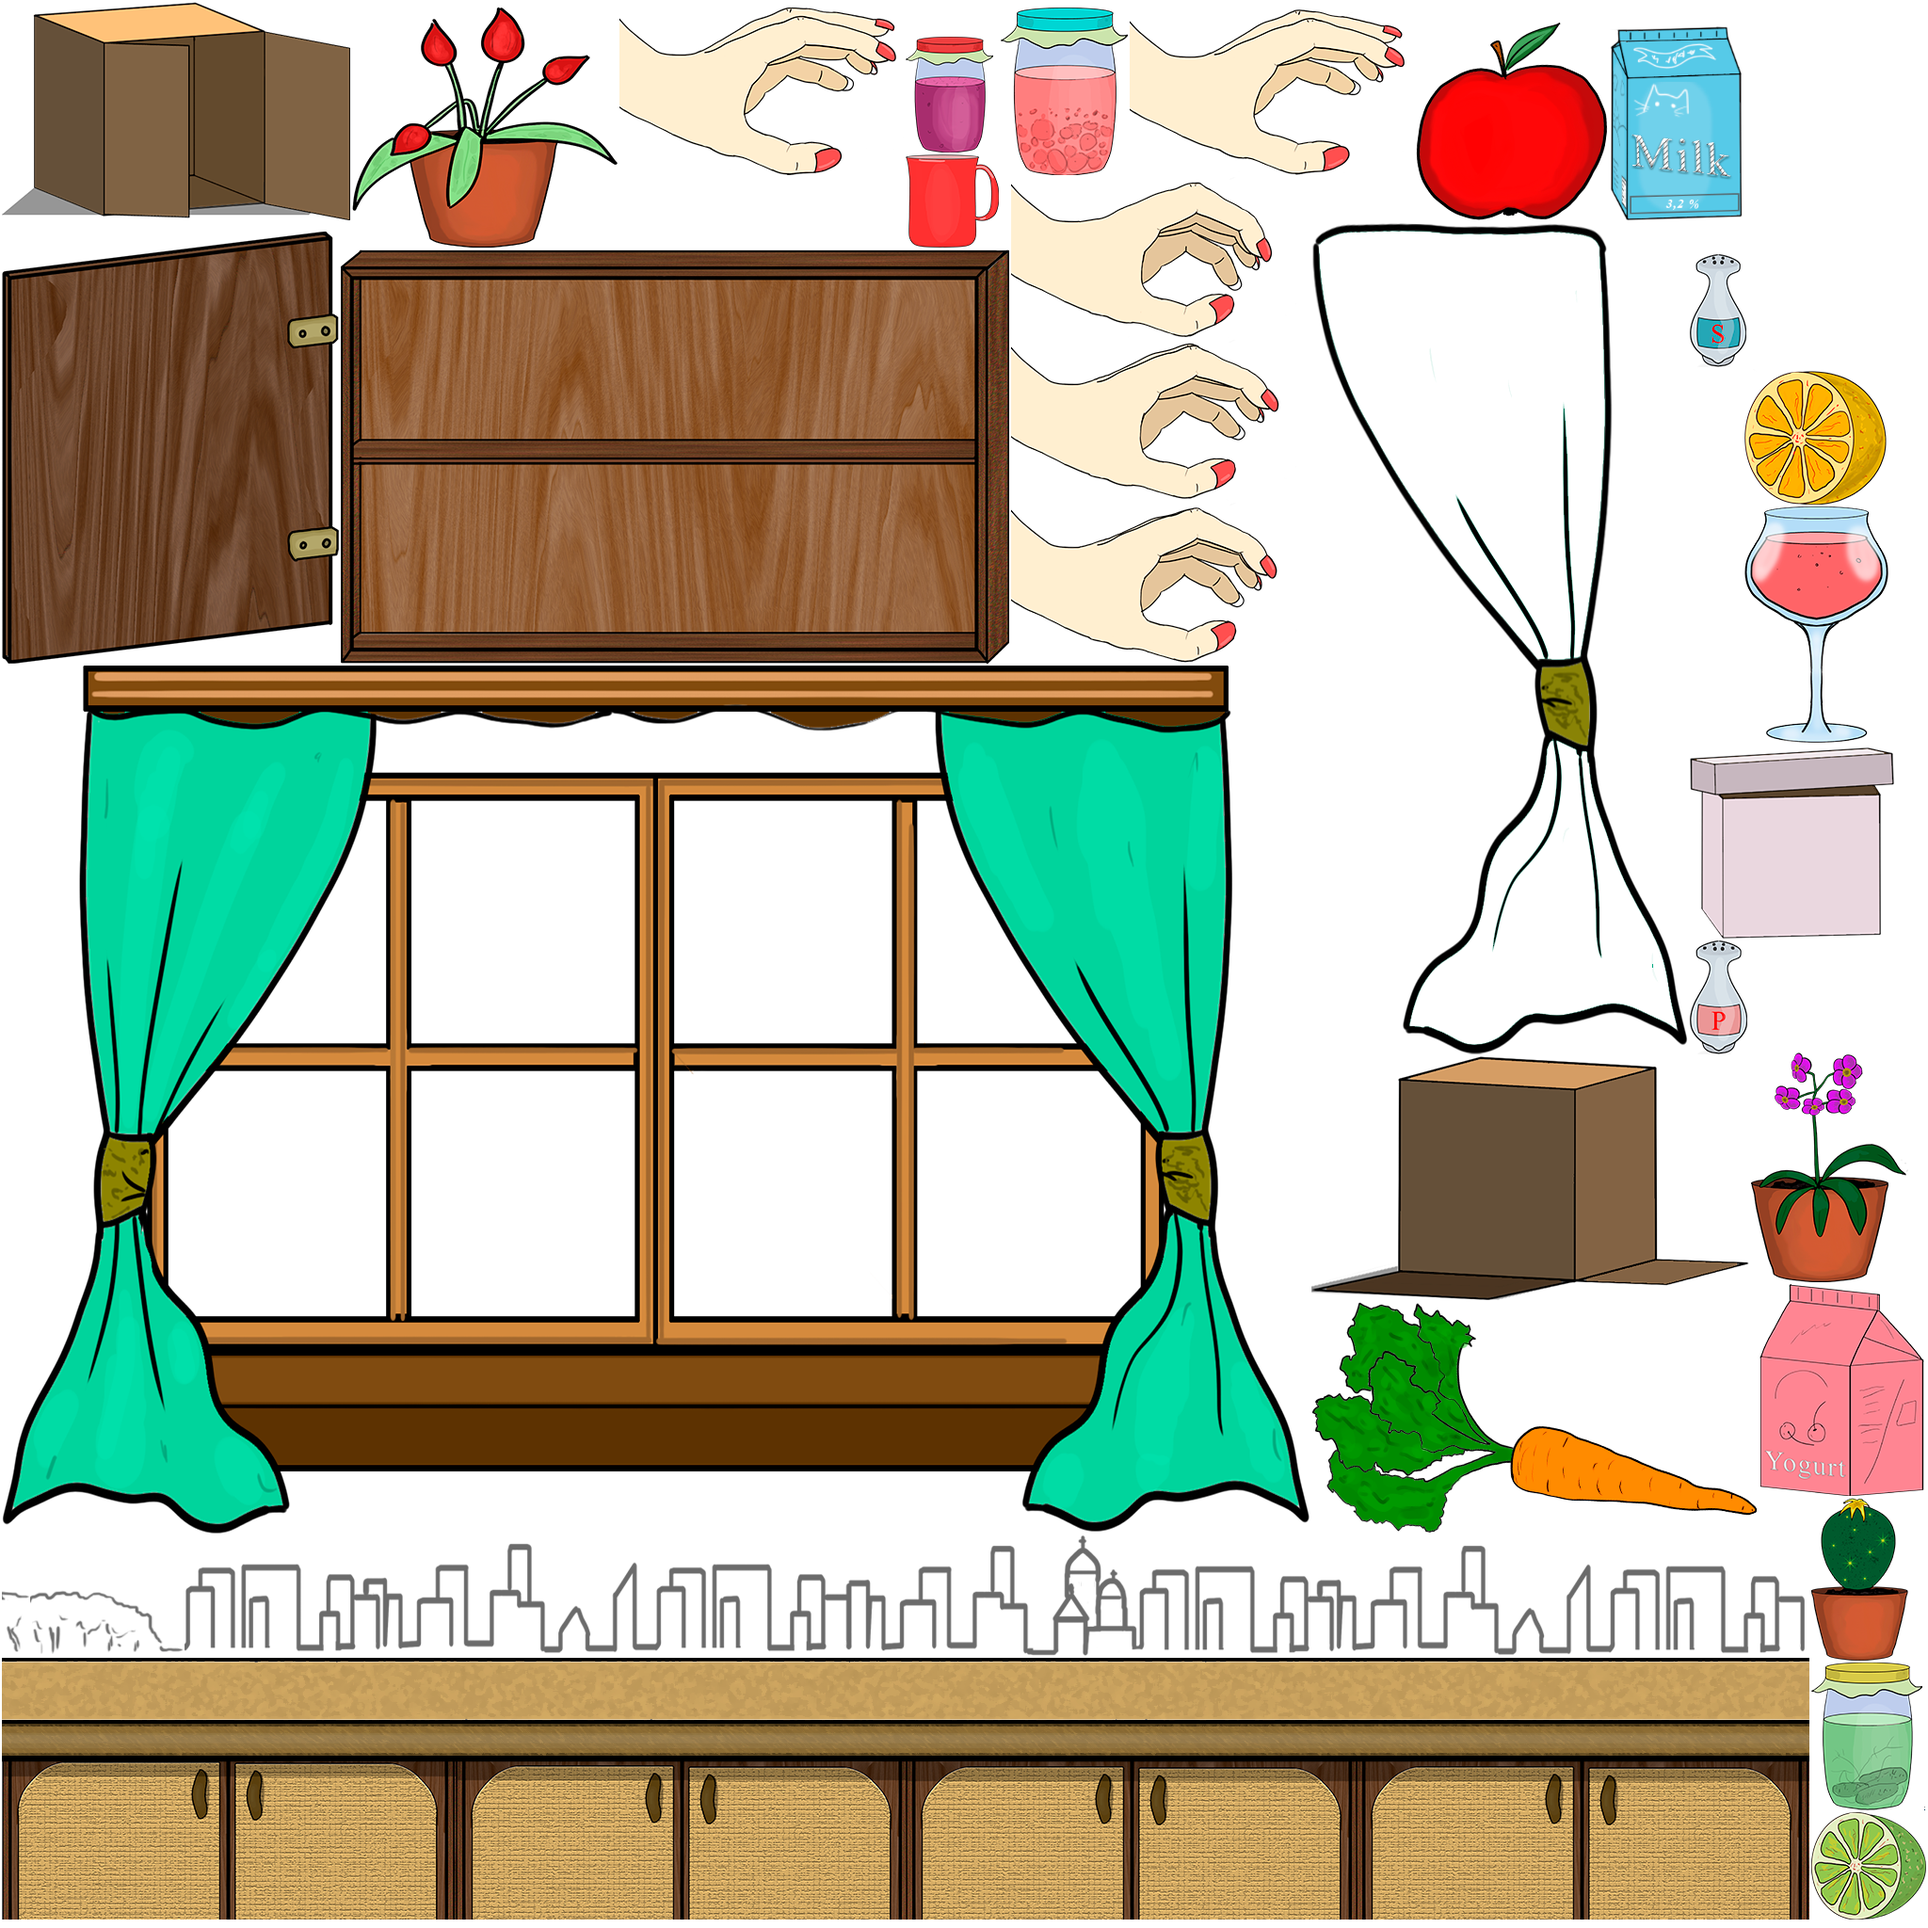
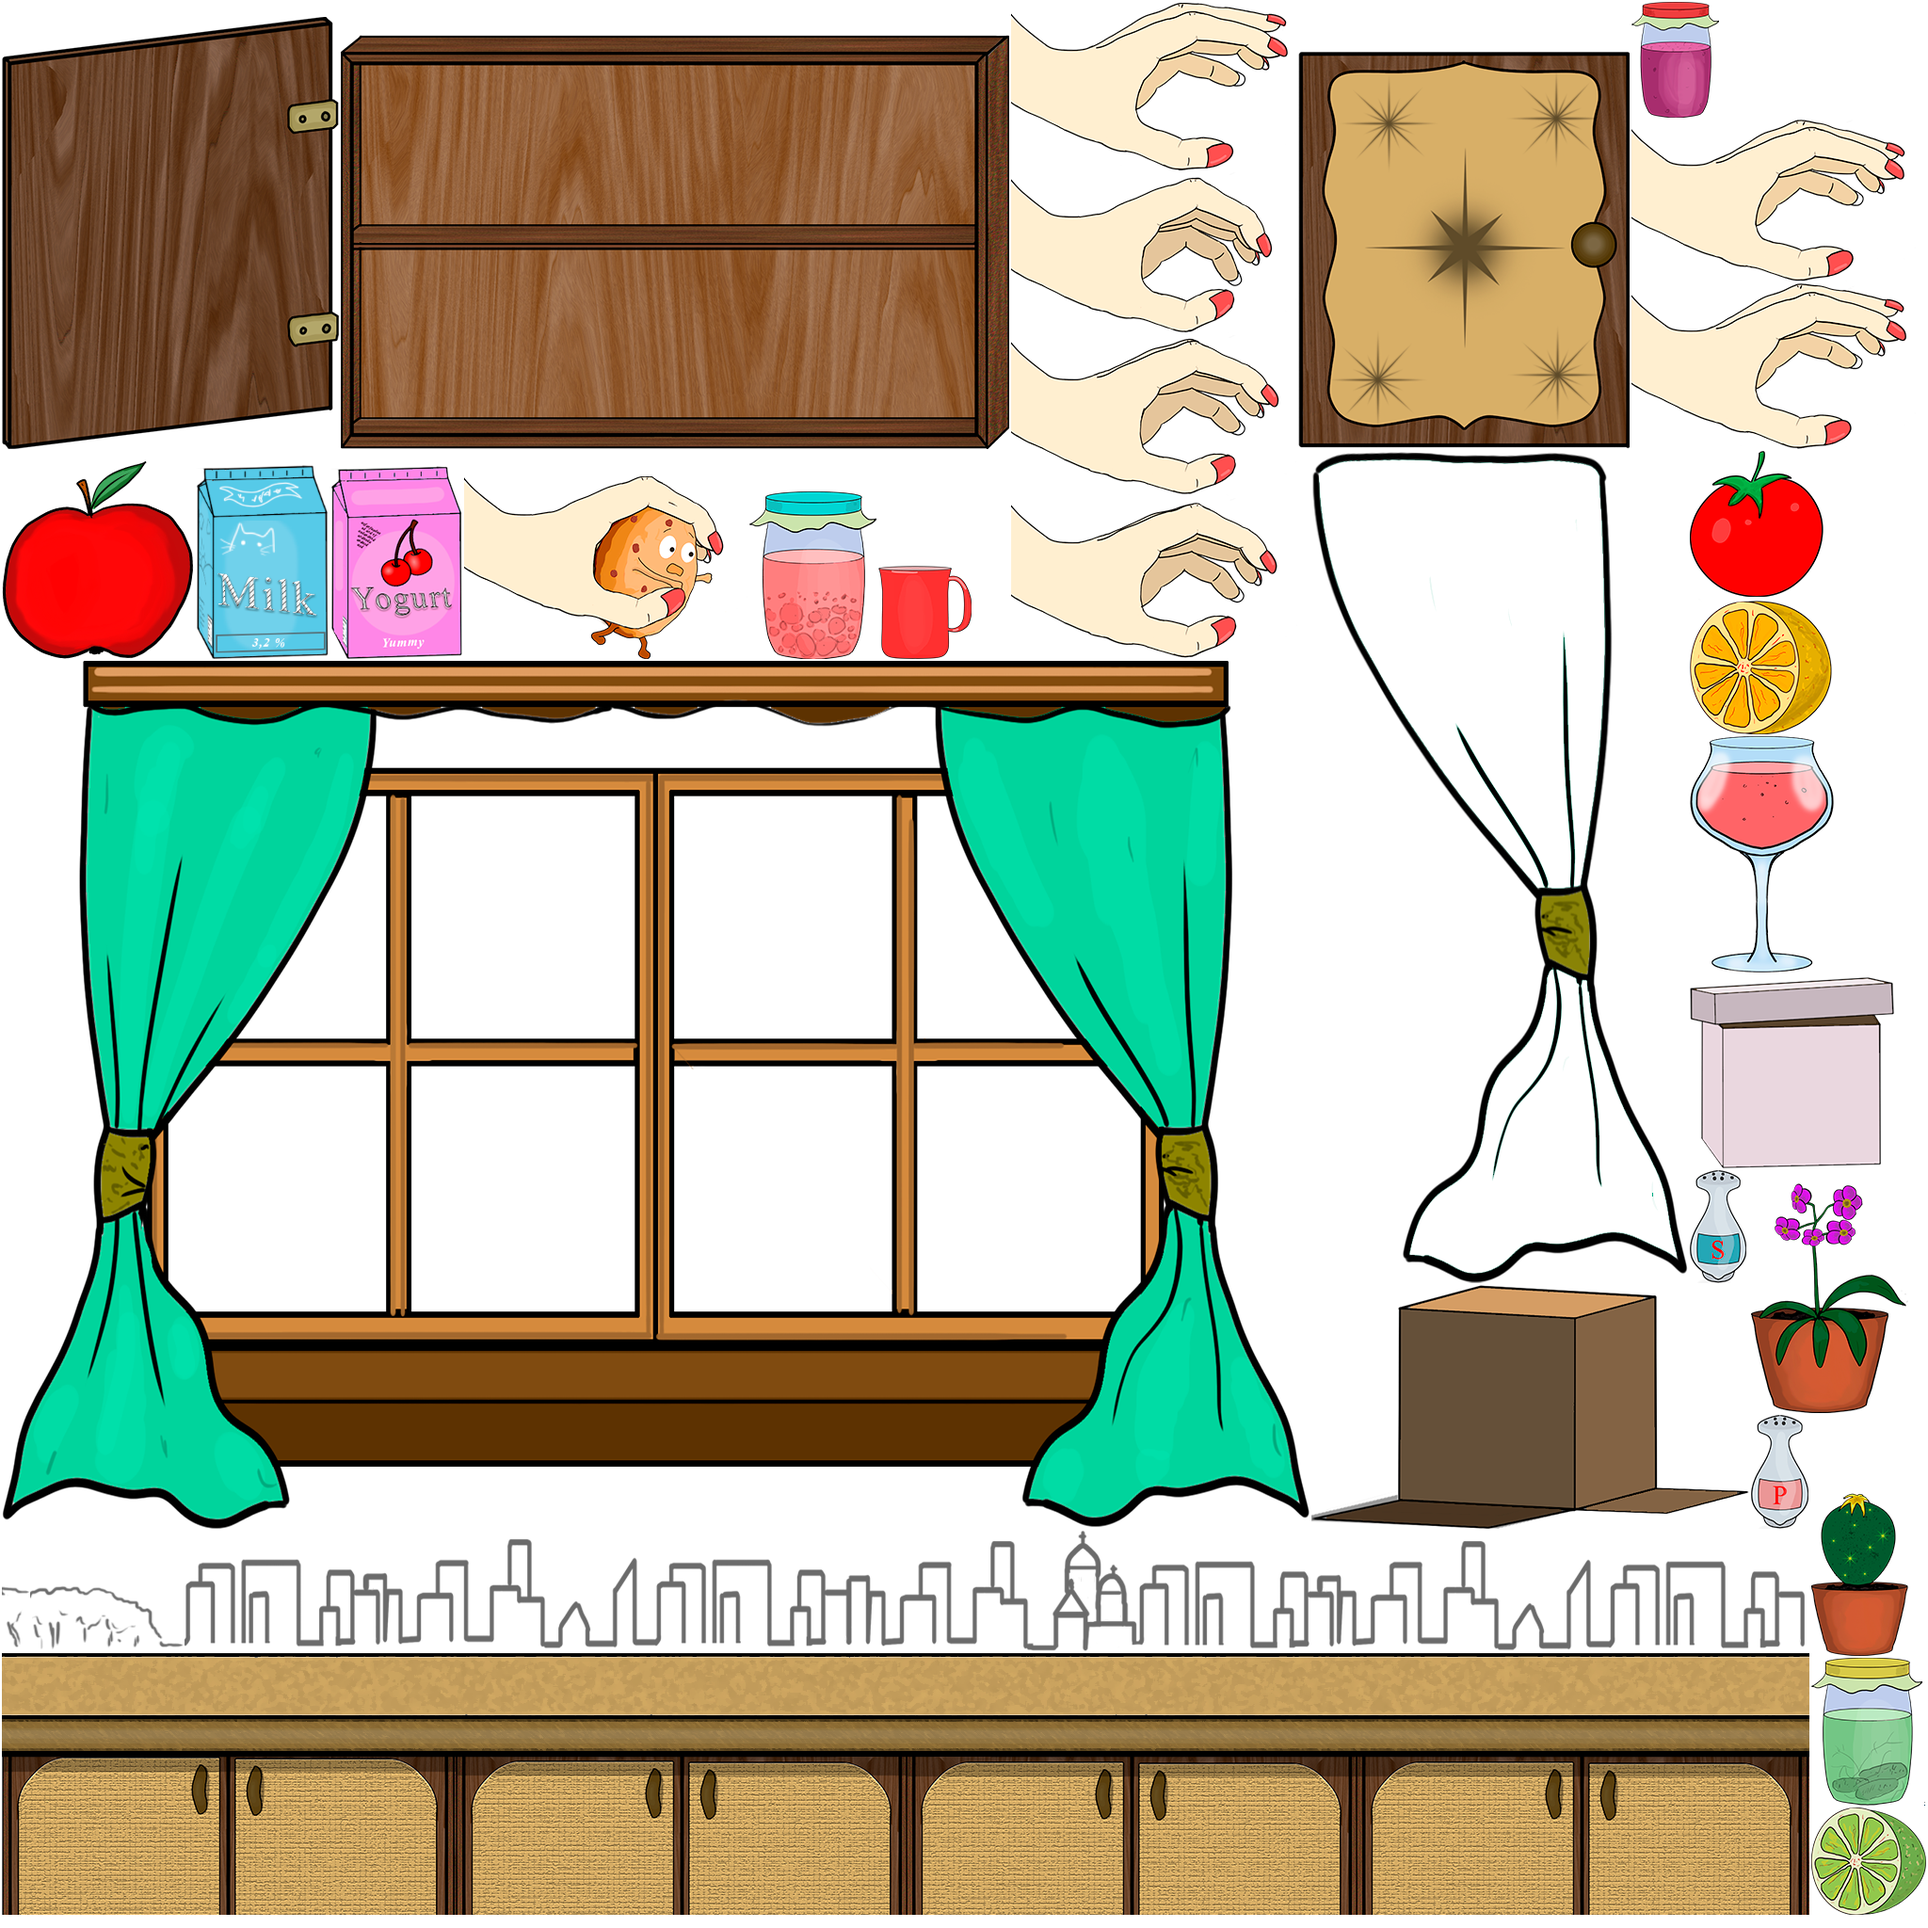
(fix) add few news items of table

diff --git a/core/src/com/mygdx/game/actors/game/RandomTableItem.kt b/core/src/com/mygdx/game/actors/game/RandomTableItem.kt
@@ -5,8 +5,11 @@ import com.badlogic.gdx.assets.AssetManager
 import com.badlogic.gdx.graphics.g2d.Batch
 import com.badlogic.gdx.graphics.g2d.TextureAtlas
 import com.badlogic.gdx.graphics.glutils.ShapeRenderer
+import com.badlogic.gdx.math.Interpolation
 import com.badlogic.gdx.math.Rectangle
 import com.badlogic.gdx.scenes.scene2d.Actor
+import com.badlogic.gdx.scenes.scene2d.actions.Actions
+import com.mygdx.game.Config
 import com.mygdx.game.api.*
 import com.mygdx.game.data.Assets
 import com.mygdx.game.data.Descriptors
@@ -16,7 +19,7 @@ import java.util.*
 
 class RandomTableItem(manager : AssetManager,
                       private val table : Table,
-                      private val cookie : Cookie) : GameActor(), Scrollable, Physical{
+                      private val cookie : Cookie) : GameActor(), Scrollable, Physical, Animated{
 
     private val rand = Random()
     private val texture = manager.get(Descriptors.environment)
@@ -87,7 +90,7 @@ class RandomTableItem(manager : AssetManager,
     }
 
     private fun setRandomItem(){
-        when(rand.nextInt(6)){
+        when(rand.nextInt(11)){
             1 -> {
                 region = texture.findRegion(Assets.EnvironmentAtlas.BOX1)
                 val boundHeight = region.originalHeight.toFloat() - 25 - 20
@@ -128,12 +131,47 @@ class RandomTableItem(manager : AssetManager,
                 y = table.worktopY
                 jumpOnSound = Sound.JUMP_ON_BOX
             }
-            //1 -> texture.findRegion(Assets.EnvironmentAtlas.LIME)
-            //2 -> texture.findRegion(Assets.EnvironmentAtlas.APPLE)
-            //4 -> texture.findRegion(Assets.EnvironmentAtlas.YOGURT_BOX)
+            6 -> {
+                region = texture.findRegion(Assets.EnvironmentAtlas.YOGURT_BOX)
+                val boundHeight = region.originalHeight.toFloat()
+                val boundWidth = region.originalWidth.toFloat()
+                startBound = Rectangle(0f, 0f, boundWidth, boundHeight)
+                y = table.worktopY
+                jumpOnSound = Sound.JUMP_ON_BOX
+            }
+            7 -> {
+                region = texture.findRegion(Assets.EnvironmentAtlas.TOMATO)
+                val boundHeight = region.originalHeight.toFloat() -40
+                val boundWidth = region.originalWidth.toFloat() -50
+                startBound = Rectangle(40f, 0f, boundWidth, boundHeight)
+                y = table.worktopY -20
+                jumpOnSound = Sound.JUMP_ON_BOX
+            }
+            8 -> {
+                region = texture.findRegion(Assets.EnvironmentAtlas.APPLE)
+                val boundHeight = region.originalHeight.toFloat() -60
+                val boundWidth = region.originalWidth.toFloat() -80
+                startBound = Rectangle(40f, 0f, boundWidth, boundHeight)
+                y = table.worktopY -20
+                jumpOnSound = Sound.JUMP_ON_BOX
+            }
+            9 -> {
+                region = texture.findRegion(Assets.EnvironmentAtlas.LIME)
+                val boundHeight = region.originalHeight.toFloat() -5
+                val boundWidth = region.originalWidth.toFloat() -80
+                startBound = Rectangle(40f, 0f, boundWidth, boundHeight)
+                y = table.worktopY -20
+                jumpOnSound = Sound.JUMP_ON_BOX
+            }
+            10 -> {
+                region = texture.findRegion(Assets.EnvironmentAtlas.ORANGE)
+                val boundHeight = region.originalHeight.toFloat() -5
+                val boundWidth = region.originalWidth.toFloat() -80
+                startBound = Rectangle(40f, 0f, boundWidth, boundHeight)
+                y = table.worktopY -20
+                jumpOnSound = Sound.JUMP_ON_BOX
+            }
             //1 -> texture.findRegion(Assets.EnvironmentAtlas.GLASS)
-            //6 -> texture.findRegion(Assets.EnvironmentAtlas.PIE)
-            //5 -> texture.findRegion(Assets.EnvironmentAtlas.CARROT)
             else -> {
                 region = texture.findRegion(Assets.EnvironmentAtlas.BOX2)
                 val boundHeight = region.originalHeight.toFloat() - 35 - 15
@@ -152,7 +190,9 @@ class RandomTableItem(manager : AssetManager,
     }
 
     override fun draw(batch: Batch?, parentAlpha: Float) {
-        if(startAct) batch!!.draw(region, x, y, region.originalWidth.toFloat(), region.originalHeight.toFloat())
+        val width = region.originalWidth.toFloat()
+        val height = region.originalHeight.toFloat()
+        if(startAct) batch!!.draw(region, x, y, x,y,  width, height, scaleX, scaleY, rotation)
 /*        if(startAct){
             shape.setAutoShapeType(true)
             shape.begin()
@@ -185,4 +225,17 @@ class RandomTableItem(manager : AssetManager,
     }
 
     override fun getBoundsRect() = bound
+
+    override fun animate(type: AnimationType, runAfter: Runnable) {
+        val animDuration = 0.1f
+        val action = when(type) {
+            AnimationType.ITEM_SQUASH -> {
+                val act1 = Actions.scaleTo(0.995f, 1f, animDuration, Interpolation.exp10)
+                val act2 = Actions.scaleTo(1f, 1f, animDuration, Interpolation.exp10)
+                Actions.sequence(act1, act2)
+            }
+            else -> return
+        }
+        addAction(action)
+    }
 }

diff --git a/core/src/com/mygdx/game/managers/AudioManager.kt b/core/src/com/mygdx/game/managers/AudioManager.kt
@@ -5,6 +5,7 @@ import com.badlogic.gdx.audio.Music
 import com.badlogic.gdx.utils.GdxRuntimeException
 import com.mygdx.game.Config
 import com.mygdx.game.Prefs
+import com.badlogic.gdx.audio.Sound as SoundGdx
 
 object AudioManager {
 
@@ -39,7 +40,7 @@ object AudioManager {
             prefs.flush()
         }
 
-    private val sounds = HashMap<String, com.badlogic.gdx.audio.Sound?>()
+    private val sounds = HashMap<String, SoundGdx?>()
     private val music = HashMap<String, Music?>()
 
     init {
@@ -52,8 +53,8 @@ object AudioManager {
         }
     }
 
-    private fun getSound(sound: Sound): com.badlogic.gdx.audio.Sound? {
-        var audio: com.badlogic.gdx.audio.Sound? = null
+    private fun getSound(sound: Sound): SoundGdx? {
+        var audio: SoundGdx? = null
         try {
             val file = Gdx.files.internal("${Config.SOUNDS_FOLDER}/${sound.fileName}")
             audio = Gdx.audio.newSound(file)

diff --git a/core/src/com/mygdx/game/actors/game/Cookie.kt b/core/src/com/mygdx/game/actors/game/Cookie.kt
@@ -168,6 +168,7 @@ class Cookie(manager : AssetManager,
     private fun isHigherThen(obj : RandomTableItem) = y > obj.getBoundsRect().y + obj.getBoundsRect().height - 30
     private fun setOnTop(obj : RandomTableItem) {
         resetState()
+        obj.animate(AnimationType.ITEM_SQUASH)
         position.y = obj.getBoundsRect().y + obj.getBoundsRect().height
     }
     private fun againstThe(obj : RandomTableItem) {position.x = obj.getBoundsRect().x - width}

diff --git a/core/src/com/mygdx/game/data/Assets.kt b/core/src/com/mygdx/game/data/Assets.kt
@@ -43,8 +43,7 @@ class Assets {
             const val ORANGE = "orange"
             const val LIME = "lime"
             const val APPLE = "apple"
-            const val CARROT = "carrot"
-            const val PIE = "pie"
+            const val TOMATO = "tomato"
             const val MILK_BOX = "milk_box"
             const val YOGURT_BOX = "yogurt_box"
             const val HAND = "hand"

diff --git a/core/src/com/mygdx/game/api/AnimationType.kt b/core/src/com/mygdx/game/api/AnimationType.kt
@@ -1,5 +1,5 @@
 package com.mygdx.game.api
 
 enum class AnimationType{
-    SHOW_ON_SCENE, HIDE_FROM_SCENE, LOOP_ROTATION
+    SHOW_ON_SCENE, HIDE_FROM_SCENE, LOOP_ROTATION, ITEM_SQUASH
 }
